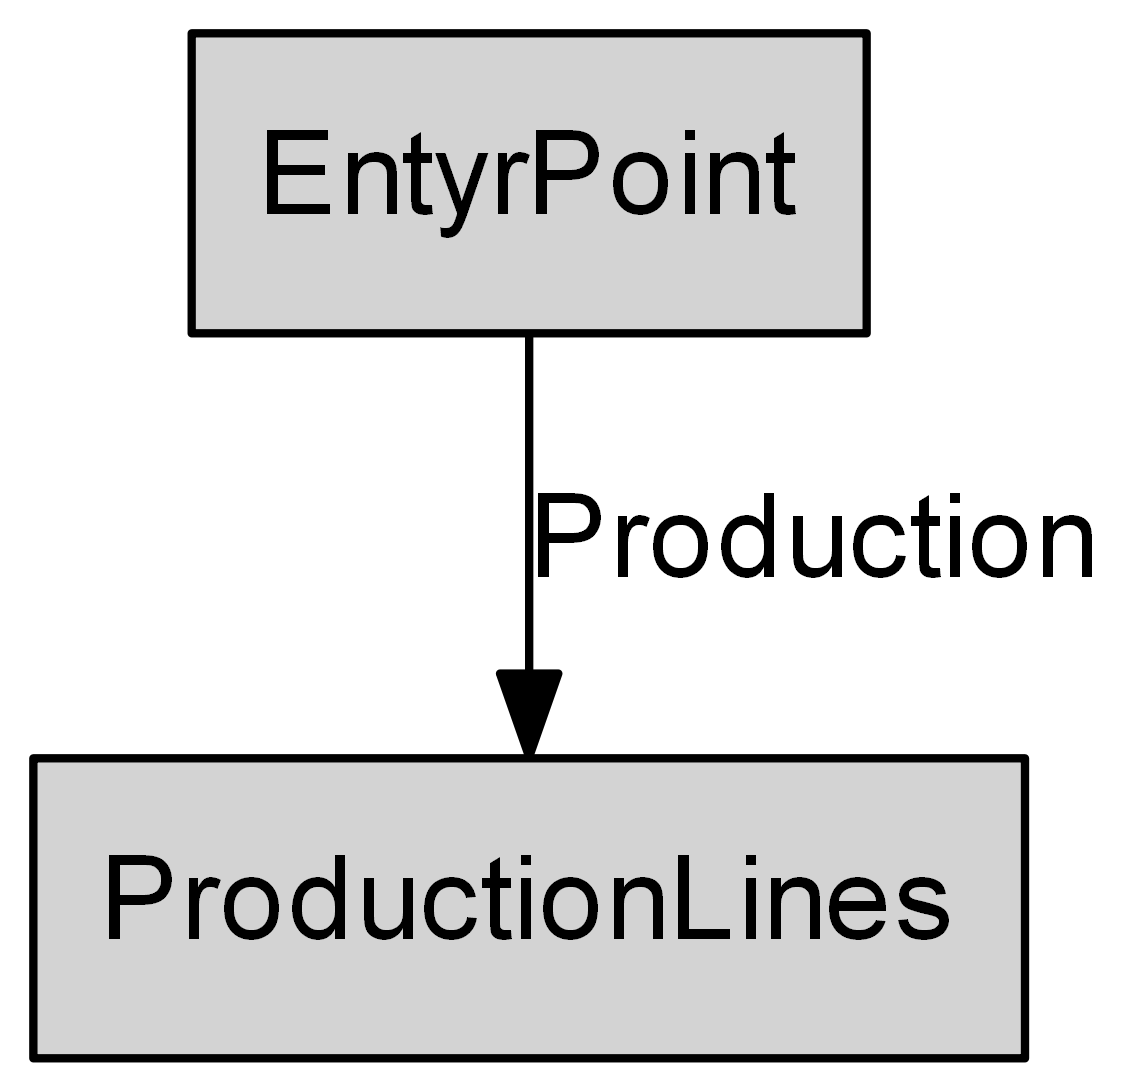
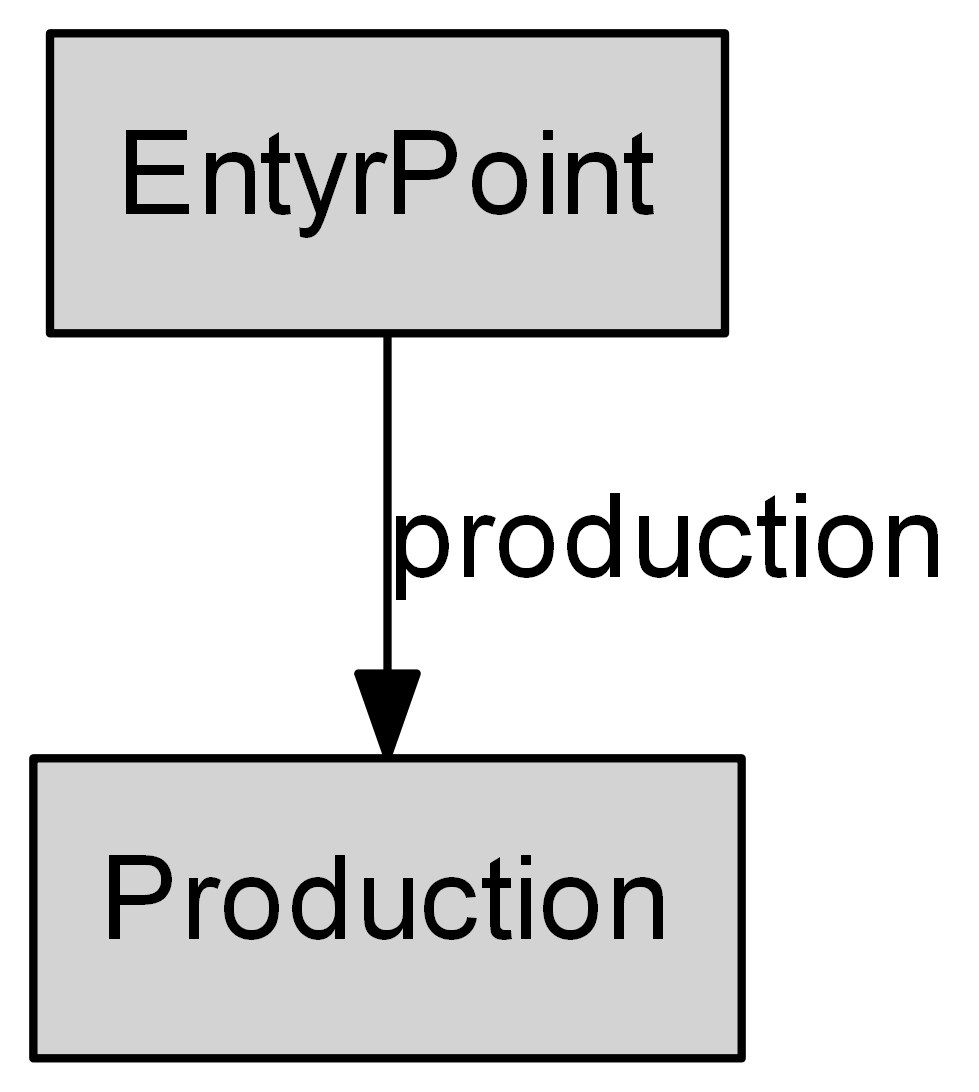
Rename ProductionLines to Production to have a less similar name to ProductionLine

diff --git a/RoboPlant.Server/REST/Production/ProductionController.cs b/RoboPlant.Server/REST/Production/ProductionController.cs
@@ -1,26 +1,26 @@
 using System.Threading.Tasks;
 using Microsoft.AspNetCore.Mvc;
-using RoboPlant.Application.ProductionLines;
+using RoboPlant.Application.Production;
 using WebApi.HypermediaExtensions.WebApi.AttributedRoutes;
 
-namespace RoboPlant.Server.REST.ProductionLines
+namespace RoboPlant.Server.REST.Production
 {
     [Route("api/[controller]")]
     [ApiController]
-    public class ProductionLinesController : Controller
+    public class ProductionController : Controller
     {
-        private readonly ProductionLinesCommandHandler commandHandler;
+        private readonly ProductionCommandHandler commandHandler;
 
-        public ProductionLinesController(ProductionLinesCommandHandler commandHandler)
+        public ProductionController(ProductionCommandHandler commandHandler)
         {
             this.commandHandler = commandHandler;
         }
 
-        [HttpGetHypermediaObject(typeof(ProductionLinesHto))]
+        [HttpGetHypermediaObject(typeof(ProductionHto))]
         public async Task<ActionResult> GetProductionLines()
         {
             var productionLines = await commandHandler.GetAllProductionLines();
-            var result = new ProductionLinesHto(productionLines);
+            var result = new ProductionHto(productionLines);
             return Ok(result);
         }
 

diff --git a/RoboPlant.Server/REST/Production/ProductionHto.cs b/RoboPlant.Server/REST/Production/ProductionHto.cs
@@ -1,19 +1,18 @@
 using System.Collections.Generic;
 using System.Linq;
-using System.Threading.Tasks;
 using RoboPlant.Server.REST.ProductionLine;
 using WebApi.HypermediaExtensions.Hypermedia;
 using WebApi.HypermediaExtensions.Hypermedia.Attributes;
 using WebApi.HypermediaExtensions.Hypermedia.Links;
 
-namespace RoboPlant.Server.REST.ProductionLines
+namespace RoboPlant.Server.REST.Production
 {
-    [HypermediaObject(Title = "Access to the available production lines of the RoboPlant", Classes = new[] { "ProductionLines" })]
-    public class ProductionLinesHto : HypermediaObject
+    [HypermediaObject(Title = "Access to the available production capabilities of the RoboPlant", Classes = new[] { "Production" })]
+    public class ProductionHto : HypermediaObject
     {
-        public ProductionLinesHto(ICollection<Domain.Production.ProductionLine> productionLines)
+        public ProductionHto(ICollection<Domain.Production.ProductionLine> productionLine)
         {
-            var productionLineHtos = productionLines.Select(p => 
+            var productionLineHtos = productionLine.Select(p => 
                 new RelatedEntity("ProductionLine", new HypermediaObjectReference(new ProductionLineHto(p))));
 
             this.Entities.AddRange(productionLineHtos);

diff --git a/RoboPlant.Application/Production/ProductionCommandHandler.cs b/RoboPlant.Application/Production/ProductionCommandHandler.cs
@@ -1,17 +1,15 @@
-using System;
-using System.Collections.Generic;
-using System.Text;
+using System.Collections.Generic;
 using System.Threading.Tasks;
 using RoboPlant.Application.Persistence;
 using RoboPlant.Domain.Production;
 
-namespace RoboPlant.Application.ProductionLines
+namespace RoboPlant.Application.Production
 {
-    public class ProductionLinesCommandHandler
+    public class ProductionCommandHandler
     {
         private readonly IProductionLineRepository productionLineRepository;
 
-        public ProductionLinesCommandHandler(IProductionLineRepository productionLineRepository)
+        public ProductionCommandHandler(IProductionLineRepository productionLineRepository)
         {
             this.productionLineRepository = productionLineRepository;
         }

diff --git a/RoboPlant.Server/Startup.cs b/RoboPlant.Server/Startup.cs
@@ -9,7 +9,7 @@ using WebApi.HypermediaExtensions.WebApi.ExtensionMethods;
 using Bluehands.Hypermedia.MediaTypes;
 using Microsoft.AspNetCore.Mvc.Formatters;
 using RoboPlant.Application.Persistence;
-using RoboPlant.Application.ProductionLines;
+using RoboPlant.Application.Production;
 using RoboPlant.InMemoryPersistence;
 using RoboPlant.Server.GlopbalExceptionHandler;
 using RoboPlant.Server.Problems;
@@ -52,7 +52,7 @@ namespace RoboPlant.Server
 
             // DI for application
             services.AddSingleton<IProductionLineRepository, ProductionLineRepository>();
-            services.AddTransient<ProductionLinesCommandHandler>();
+            services.AddTransient<ProductionCommandHandler>();
             services.AddTransient<ProductionLineCommandHandler>();
         }
 

diff --git a/RoboPlant.Server/REST/EntryPoint/EntryPointHto.cs b/RoboPlant.Server/REST/EntryPoint/EntryPointHto.cs
@@ -1,4 +1,4 @@
-using RoboPlant.Server.REST.ProductionLines;
+using RoboPlant.Server.REST.Production;
 using WebApi.HypermediaExtensions.Hypermedia;
 using WebApi.HypermediaExtensions.Hypermedia.Attributes;
 using WebApi.HypermediaExtensions.Hypermedia.Links;
@@ -10,7 +10,7 @@ namespace RoboPlant.Server.REST.EntryPoint
     {
         public EntryPointHto()
         {
-            this.Links.Add("production", new HypermediaObjectKeyReference(typeof(ProductionLinesHto)));
+            this.Links.Add("production", new HypermediaObjectKeyReference(typeof(ProductionHto)));
         }
     }
 }

diff --git a/RoboPlant.Application/Production/ProductionLineCommandHandler.cs b/RoboPlant.Application/Production/ProductionLineCommandHandler.cs
@@ -3,7 +3,7 @@ using System.Threading.Tasks;
 using RoboPlant.Application.Persistence;
 using RoboPlant.Domain.Production;
 
-namespace RoboPlant.Application.ProductionLines
+namespace RoboPlant.Application.Production
 {
     public class ProductionLineCommandHandler
     {

diff --git a/RoboPlant.Server/REST/ProductionLine/ProductionLineController.cs b/RoboPlant.Server/REST/ProductionLine/ProductionLineController.cs
@@ -1,6 +1,6 @@
 using System;
 using Microsoft.AspNetCore.Mvc;
-using RoboPlant.Application.ProductionLines;
+using RoboPlant.Application.Production;
 using WebApi.HypermediaExtensions.WebApi.AttributedRoutes;
 
 namespace RoboPlant.Server.REST.ProductionLine
